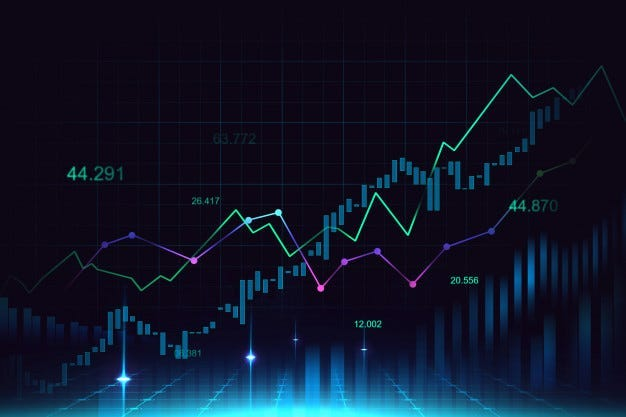
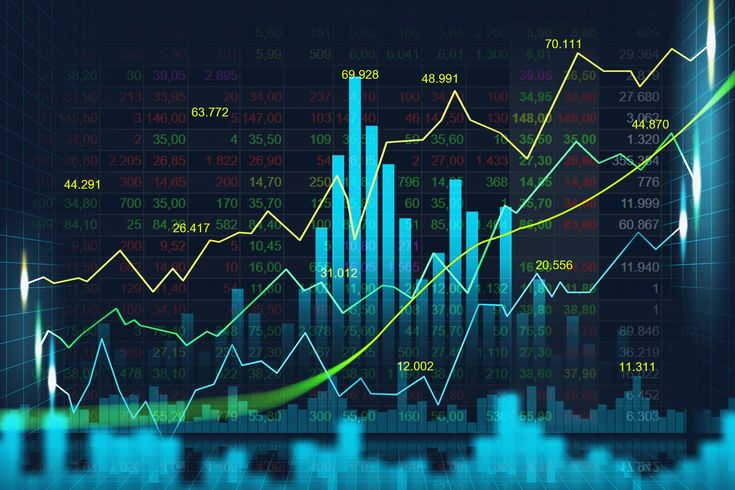
project images changed

diff --git a/index.html b/index.html
@@ -235,7 +235,7 @@
       <div class="about-containers">
         <div class="details-container color-container">
           <div class="article-container">
-            <img src="./assets/project/project-4.png" alt="Evo - Genetric Algorithm Viz" class="project-img" />
+            <img src="./assets/project/project-4.jpg" alt="Evo - Genetric Algorithm Viz" class="project-img" />
           </div>
           <h2 class="experience-sub-title project-title">Evo - Genetic Algortihm Viz</h2>
           <div class="btn-container">
@@ -249,7 +249,7 @@
         </div>
         <div class="details-container color-container">
           <div class="article-container">
-            <img src="./assets/project/project-5.jpeg" alt="King Me - Checkers Edition" class="project-img" />
+            <img src="./assets/project/project-5.jpg" alt="King Me - Checkers Edition" class="project-img" />
           </div>
           <h2 class="experience-sub-title project-title">King Me - Checkers Edition</h2>
           <div class="btn-container">
@@ -263,7 +263,7 @@
         </div>
         <div class="details-container color-container">
           <div class="article-container">
-            <img src="./assets/project/project-6.jpeg" alt="Type Racer - Typing Speed Test" class="project-img"/>
+            <img src="./assets/project/project-6.gif" alt="Type Racer - Typing Speed Test" class="project-img"/>
           </div>
           <h2 class="experience-sub-title project-title">Click - Typing Speed Game</h2>
           <div class="btn-container">
